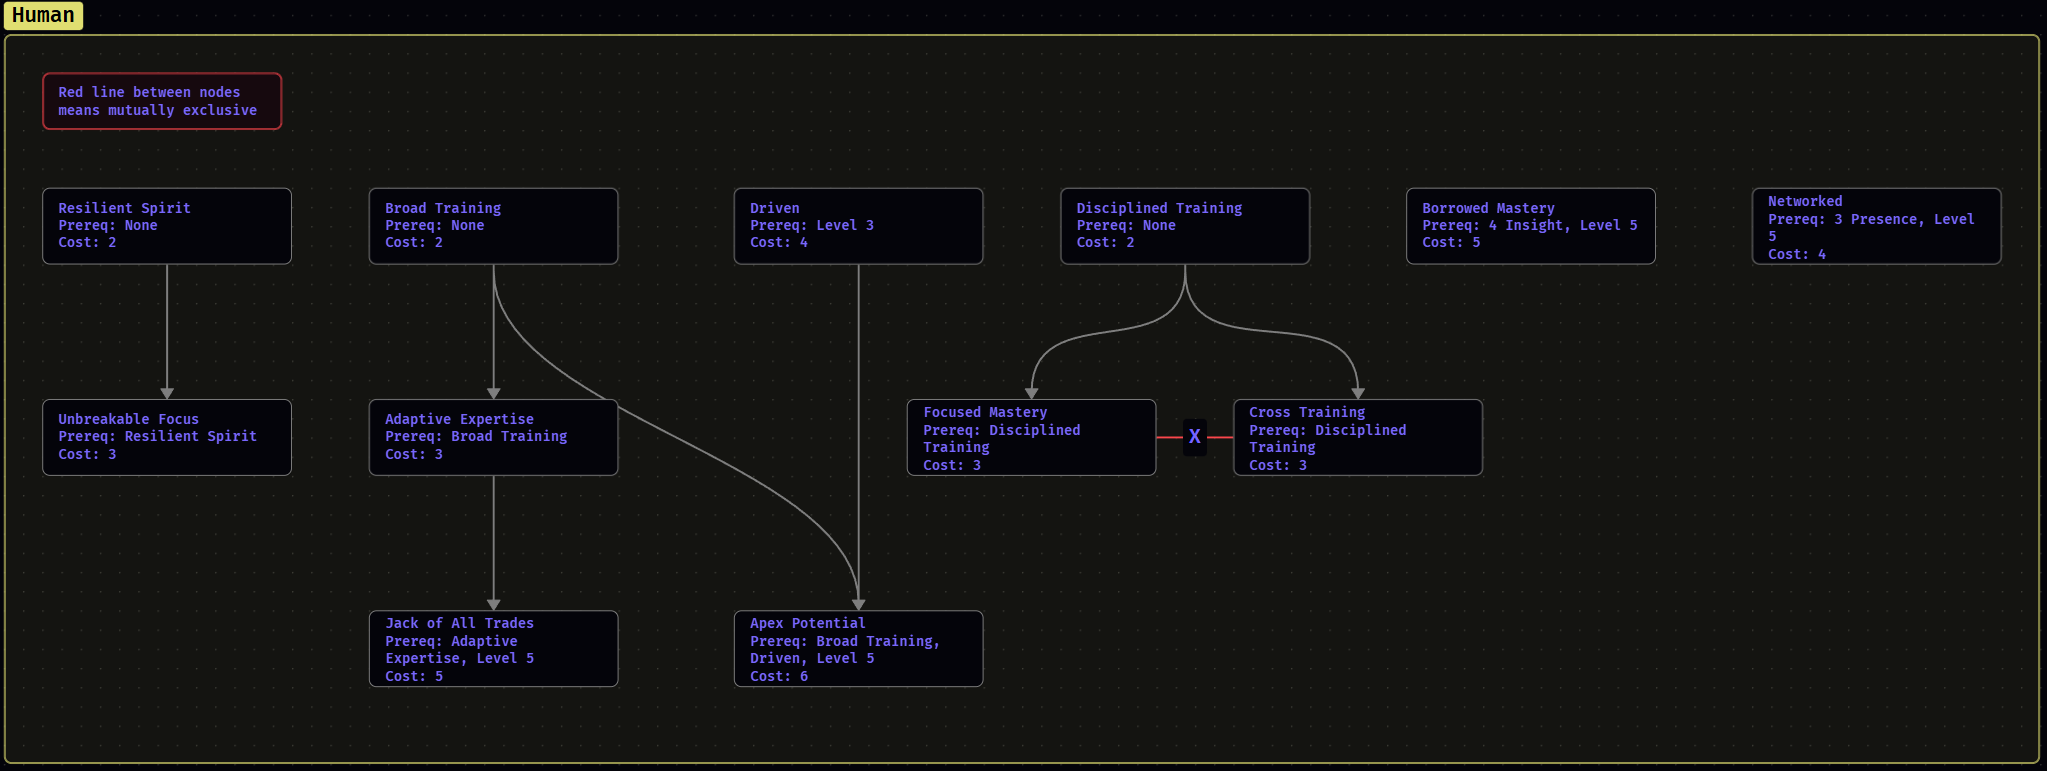
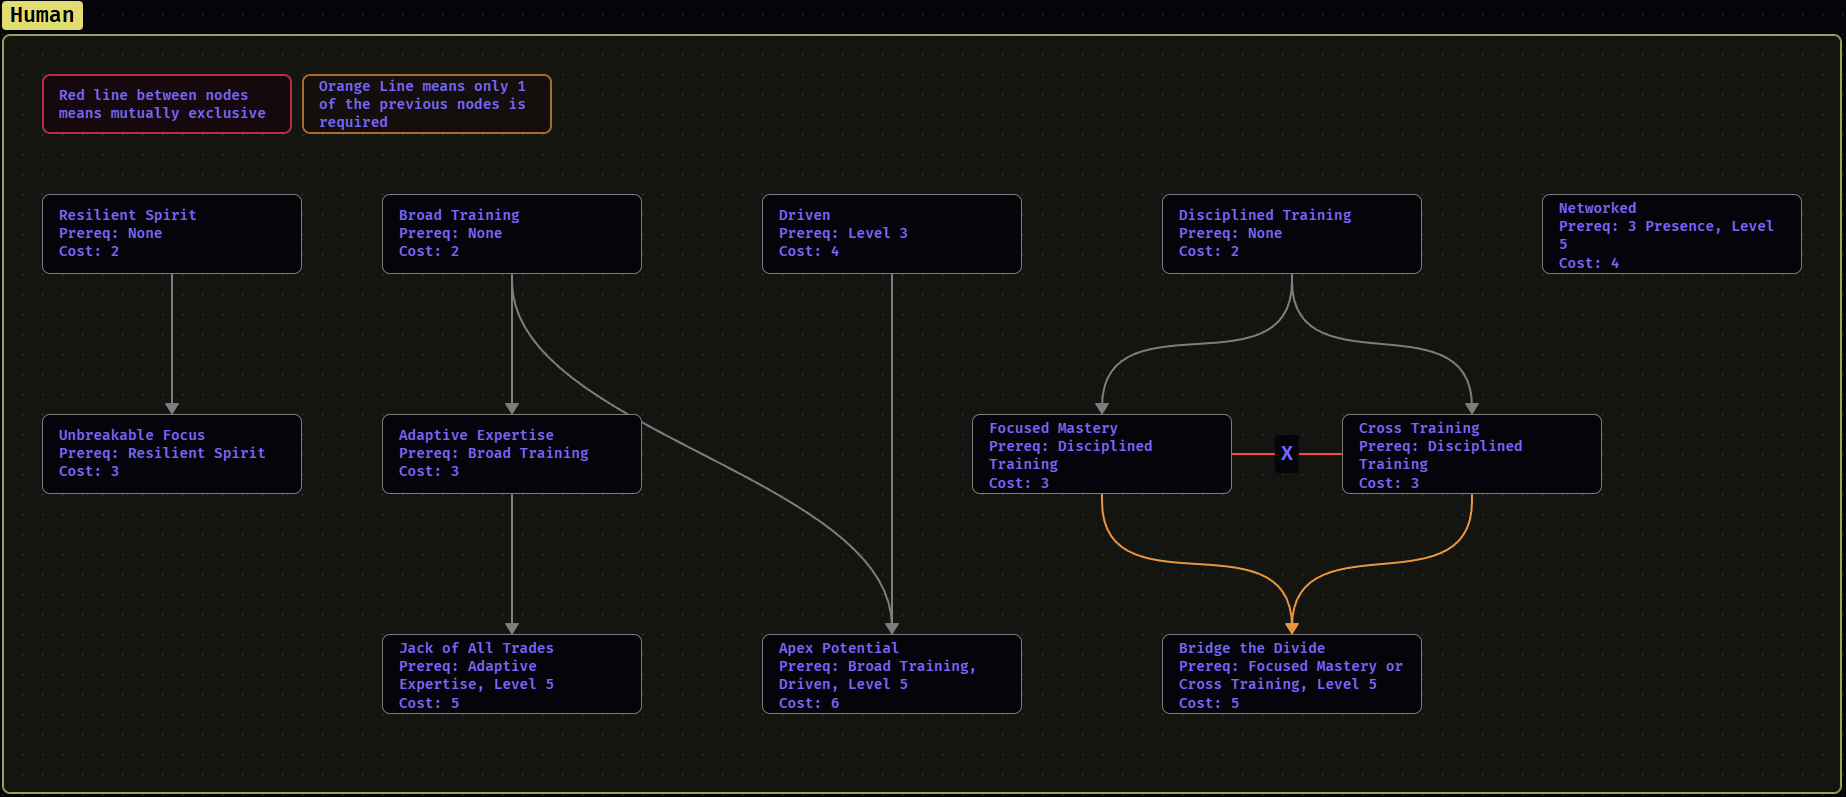
Weapon masteries and reworks

diff --git a/Worlds/Solasfall/Disciplines/Weapon Mastery/Swords/Swords.md b/Worlds/Solasfall/Disciplines/Weapon Mastery/Swords/Swords.md
@@ -1,0 +1,81 @@
+---
+tags:
+  - Mechanics/Combat
+  - Discipline
+---
+# Swords
+
+## Honed Edge
+**Prerequisites:** None.
+**Cost:** 2 Trait Points.
+Swords you wield deal **+1 damage**.
+
+## Practiced Guard
+**Prerequisites:** Honed Edge.
+**Cost:** 2 Trait Points.
+You gain **+1** to all **Parry** Tests made with a sword. This stacks with any Guarded bonus the weapon already has.
+
+## Nimble Footing
+**Prerequisites:** Honed Edge.
+**Cost:** 2 Trait Points.
+Once per Round, when you hit with a One-Handed sword, you may change your **Facing** as a free action, without spending your Reaction.
+
+## Keen Point 
+**Prerequisites:** Honed Edge.
+**Cost:** 2 Trait Points.
+You gain **+1** to Attack Tests made with a sword against a target that is Prone, Flanked, or otherwise at a positional disadvantage.
+
+## Committed Swing 
+**Prerequisites:** Honed Edge.
+**Cost:** 2 Trait Points.
+Once per Round, you may take a **–2** penalty to an Attack Test made with a sword to deal **+2 damage** if it hits.
+
+## Advancing Guard 
+**Prerequisites:** Practiced Guard, Nimble Footing.
+**Cost:** 3 Trait Points.
+When you successfully **Parry**, you may immediately use Nimble Footing's free Facing change, even though you have not landed a hit this Round.
+
+## Perfect Opening
+**Prerequisites:** Nimble Footing, Keen Point.
+**Cost:** 3 Trait Points.
+When you change Facing via Nimble Footing, your next Attack this Round against the creature you turned to face gains Keen Point's bonus, even if they were not otherwise eligible for it.
+
+## Reckless Precision
+**Prerequisites:** Keen Point, Committed Swing.
+**Cost:** 3 Trait Points.
+When an Attack qualifies for both Committed Swing's damage trade and Keen Point's bonus, Committed Swing's damage bonus increases from **+2 to +4**.
+
+## Riposte
+**Prerequisites:** Practiced Guard.
+**Cost:** 3 Trait Points.
+When you score a **Critical Success** on a Parry, your free counter-attack deals **one additional weapon damage die**.
+
+## Whirling Advance
+**Prerequisites:** Nimble Footing.
+**Cost:** 2 Trait Points.
+When you change Facing via Nimble Footing, you may also shift **1m** to an adjacent unoccupied square as part of the same free action.
+
+## Opened Wound
+**Prerequisites:** Keen Point.
+**Cost:** 3 Trait Points.
+When an Attack benefiting from Keen Point's bonus hits, the target also takes **1 Blood damage** at the start of their next turn — a shallow, precise cut left to bleed.
+
+## Overwhelming Force
+**Prerequisites:** Committed Swing.
+**Cost:** 3 Trait Points.
+When you hit using Committed Swing's damage trade, the target must make a **Might Test** (DN 12 + your Might) or be pushed back **1m** and suffer Disadvantage on their next Parry against you.
+
+## Unbroken Guard
+**Prerequisites:** Riposte. **Exclusive to All In.**
+**Cost:** 3 Trait Points.
+Your second Parry attempt in a Round is no longer made at Disadvantage. The Disadvantage from [[Parry#Successive Parries|Successive Parries]] now begins on your third attempt instead.
+
+## All In
+**Prerequisites:** Overwhelming Force. **Exclusive to Unbroken Guard.**
+**Cost:** 3 Trait Points.
+Once per Round, when you use Committed Swing, you may forgo your ability to Parry or Dodge until the start of your next turn to add your **Might a second time** to that attack's damage.
+
+## Master of the Blade
+**Prerequisites:** Any two of Advancing Guard, Perfect Opening, or Reckless Precision.
+**Cost:** 4 Trait Points.
+Swords you wield deal **+2 damage** instead of the +1 from Honed Edge, and you gain **+1** to all Attack Tests made with a sword.

diff --git a/Worlds/Solasfall/Characters/Character Creation.md b/Worlds/Solasfall/Characters/Character Creation.md
@@ -48,12 +48,13 @@ With your race chosen, spend any Trait Points still in your pool on Racial Tree 
 ## Step 4 — Calculate Derived Stats
 With Attributes and Race both locked in, calculate your derived pools:
 
-| Stat           | Formula                                                  |
-| -------------- | -------------------------------------------------------- |
-| **Blood**      | Base Blood (race) + Vitality + Other Modifiers           |
-| **Sturdiness** | 6 (base) + Vitality + Bought Increases + Other Modifiers |
-| **Evasion**    | 8 (base) + Grace + Other Modifiers                       |
-| **Sanity**     | 14 (base) + 2 x Resolve + Level + Other Modifiers        |
+| Stat                   | Formula                                                  |
+| ---------------------- | -------------------------------------------------------- |
+| **Blood**              | Base Blood (race) + Vitality + Other Modifiers           |
+| **Sturdiness**         | 6 (base) + Vitality + Bought Increases + Other Modifiers |
+| **Evasion**            | 8 (base) + Grace + Other Modifiers                       |
+| **Sanity**             | 14 (base) + 2 x Resolve + Level + Other Modifiers<br>    |
+| **Inventory Capacity** | 6+3 x Might                                              |
 
 Write these down now. Everything downstream — equipment choices, combat viability, whether you can even survive a first encounter — depends on knowing these numbers before you start spending money.
 

diff --git a/Worlds/Solasfall/Characters/Races/Human/Human.md b/Worlds/Solasfall/Characters/Races/Human/Human.md
@@ -78,10 +78,7 @@ Prerequisites: Broad Training, Driven, Level 5.
 Cost: 6 Trait Points. 
 Choose one Attribute. Its maximum increases to 7. The cost to reach 7 from 6 is 6 Trait Points. This choice is permanent.
 
-## Borrowed Mastery
-Prerequisites: 4 Insight, Level 5.
-Cost: 5 Trait Points. 
-Through deep cultural immersion, mentorship, or prolonged exposure, you have internalised a capability from another people. Choose any none prerequisite node from another race's racial web. You gain that node's effect. The narrative justification must be established in play — your GM must agree the exposure is credible.
+
 
 ## Jack of All Trades
 Prerequisites: Adaptive Expertise, Level 5.